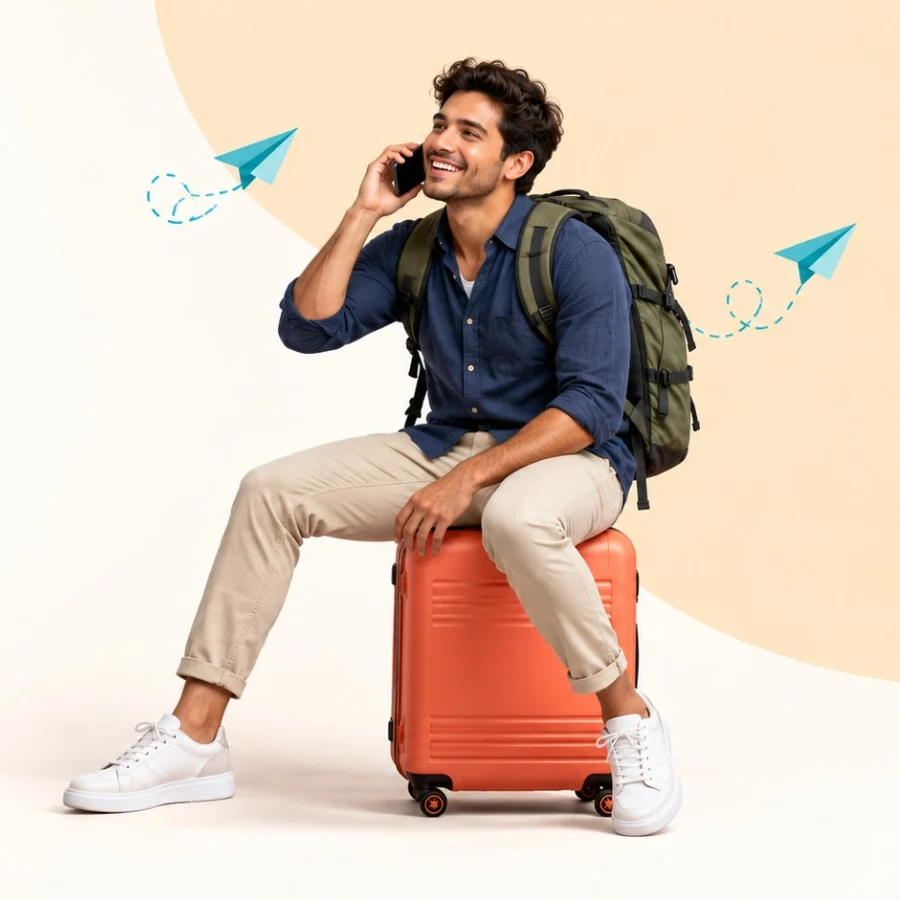
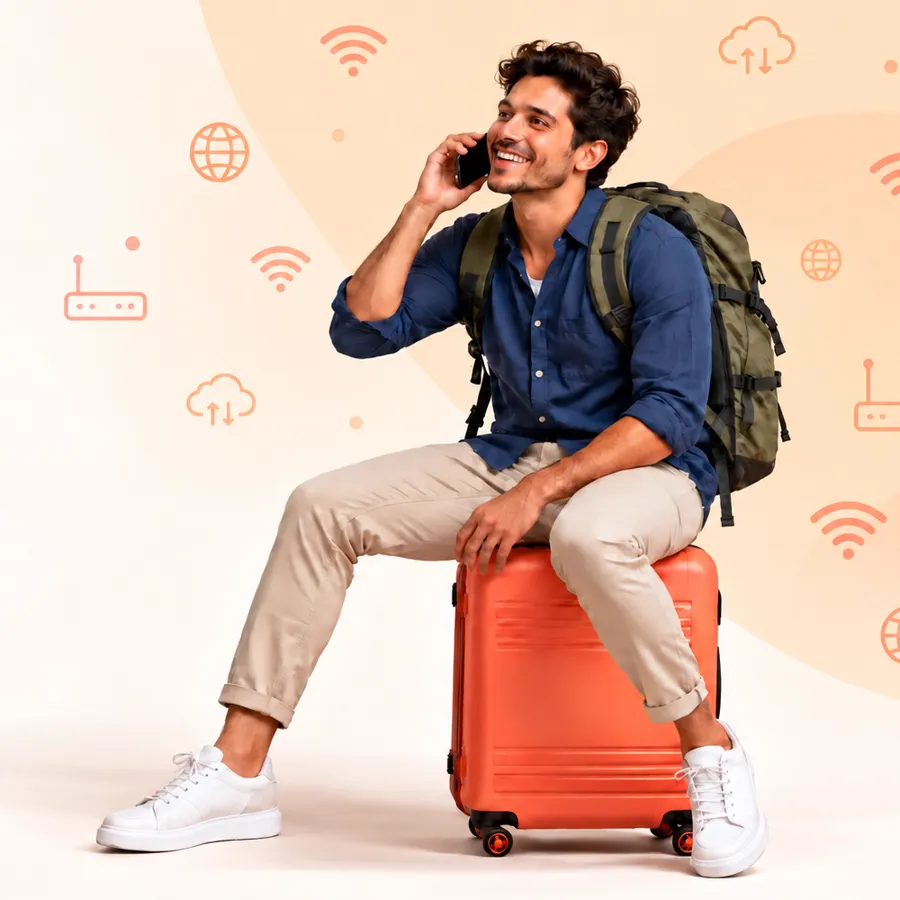
Nueva foto del viajero en el hero
- hero-viajero.webp (escritorio) y hero-viajero-movil.webp (recorte para móvil) desde la foto nueva
- Fondo del hero ajustado al tono del borde de la foto
- Se quita hero-viajero.png, que no se usaba

diff --git a/css/styles.css b/css/styles.css
@@ -10,7 +10,7 @@
   --grad-cta: linear-gradient(120deg, #FFB534 0%, #F7894A 55%, #EC6A5A 100%);
   --teal: #006380;
   --peach: #FFF1DA;
-  --hero-bg: #fdfcf7;   /* el fondo crema de img/hero-viajero.webp */
+  --hero-bg: #fdfcf9;   /* el fondo crema de img/hero-viajero.webp */
   --lilac: #DFD7F9;
   --bg: #fff;
   --shadow: 0 100px 80px rgba(0,0,0,.02), 0 30px 40px rgba(0,0,0,.035), 0 10px 20px rgba(0,0,0,.04);
